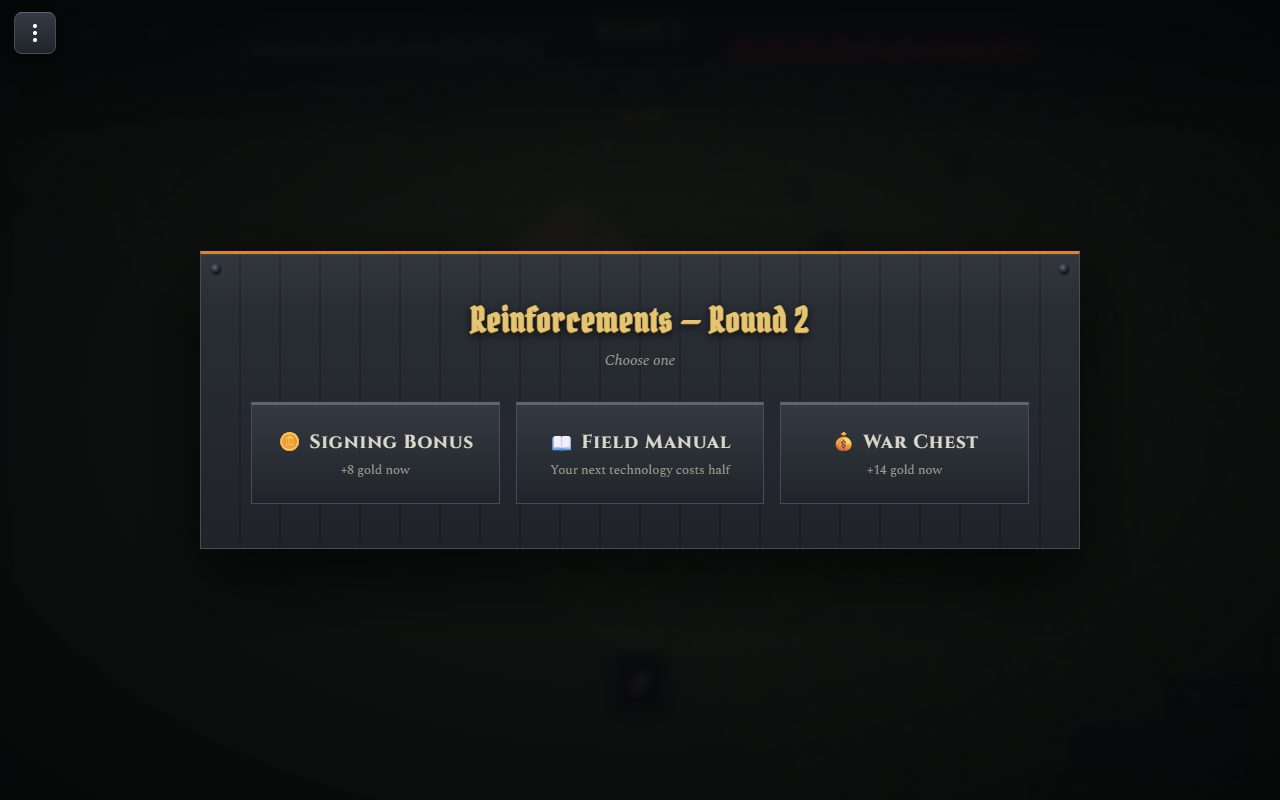
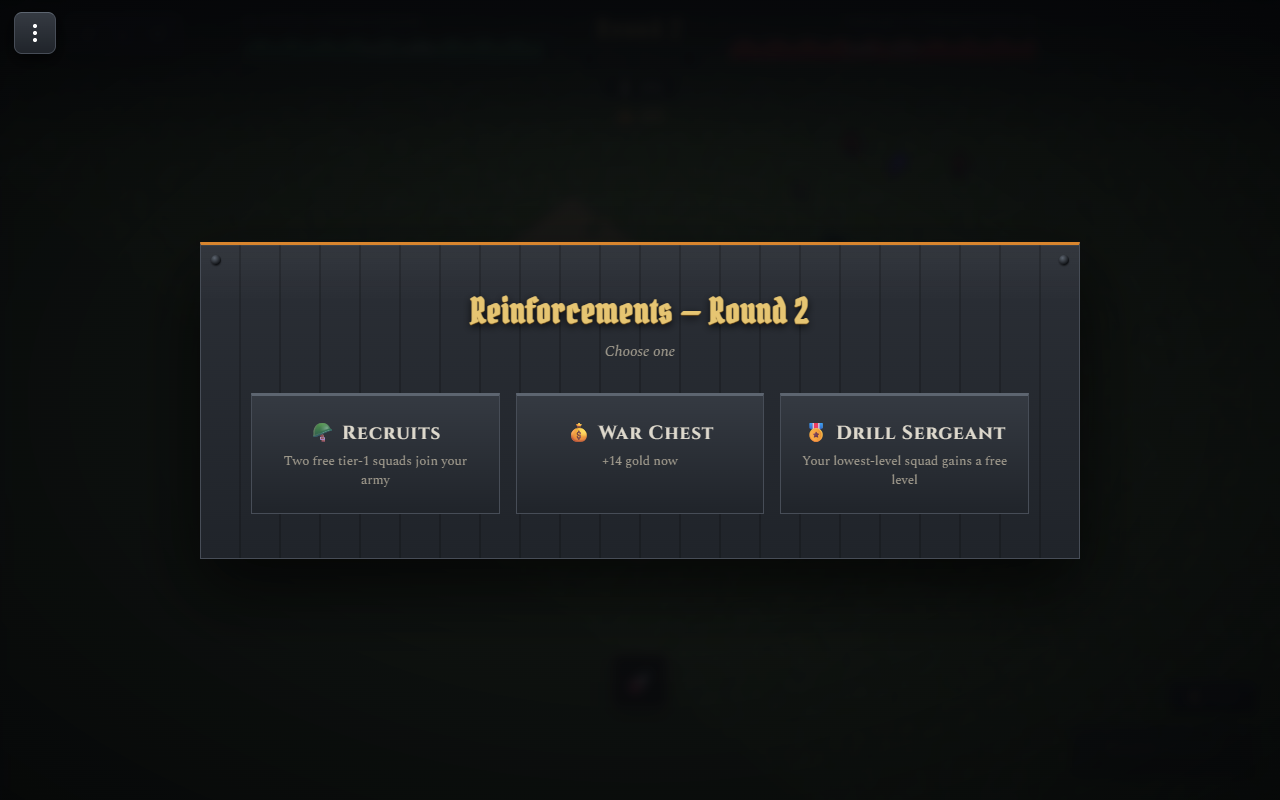
HeroArena: combat XP done right — killers earn the victim's worth
Correcting the previous commit (which removed XP entirely): Mechabellum units
DO earn experience, just not passively. Implemented its actual model:
- The killing unit (victim's combatState.lastAttacker) gets 50% of the
  victim's XP worth; living allies near the victim split the other 50%;
  indirect kills split the full worth across the side
- Victim worth = shop cost x (2·level − 1); the earned-level threshold
  mirrors the paid price (own cost x level) in destroyed-value terms —
  a rank is earned by killing what it would cost to buy
- Levels mutate entry.level directly from both sources (combat + gold);
  legacy flat per-death XP curve removed
- Feeding kills to a carry is now a real strategy, as in Mechabellum
- E2E 29/29 (staged-kill leveling check); headless completes

diff --git a/projects/HeroArena/collections/scripts/systems/js/HeroExperienceSystem.js b/projects/HeroArena/collections/scripts/systems/js/HeroExperienceSystem.js
@@ -25,8 +25,6 @@ class HeroExperienceSystem extends GUTS.BaseSystem {
         'broadcastToRoom'
     ];
 
-    static XP_PER_KILL = 1;          // each living ally gains this per enemy death
-    static XP_PER_LEVEL = 3;         // L2 at 3xp, L3 at 6xp, ...
     static MAX_LEVEL = 30;
     static SPEC_LEVEL = 3;           // tier-1 → tier-2 transform unlocks here
     static LEVEL_STAT_SCALE = 0.08;  // +8% hp & damage per level above 1
@@ -37,42 +35,121 @@ class HeroExperienceSystem extends GUTS.BaseSystem {
         this.game.heroExperienceSystem = this;
     }
 
-    // ─── XP (event hook) ──────────────────────────────────────────────────────
+    // ─── Combat XP (Mechabellum model) ────────────────────────────────────────
+    //
+    // Units earn experience BY KILLING (not by merely surviving):
+    // - The killer (victim's combatState.lastAttacker) gets 50% of the victim's
+    //   XP worth; living allies near the victim split the other 50%.
+    // - No valid killer (indirect death) → the worth splits among ALL of the
+    //   killing side's living units.
+    // - A victim's worth scales with its value and level: cost × (2·level − 1).
+    // - Earned levels stack with paid level-ups (ArmyShopSystem.buySquadLevel);
+    //   the threshold mirrors the paid price (cost × level, in kill-value),
+    //   so a rank is "earned" by destroying about what it would cost to buy.
+    // Feeding kills to a carry is a real strategy; stat scaling applies on the
+    // next round's respawn.
+    static PARTICIPATION_RADIUS = 220;
 
-    // Mechabellum redesign: units do NOT gain combat experience. Levels are a
-    // spending decision only — paid squad level-ups (ArmyShopSystem.buySquadLevel)
-    // and reinforcement cards. Free per-kill XP would give away the game's core
-    // "grow taller vs. grow wider" choice, so this hook is retired.
     onUnitKilled(deadEntityId) {
-        // intentionally no combat XP
+        if (!this.game.isServer && !this.game.state?.isLocalGame) return;
+        const deadTeam = this.game.getComponent(deadEntityId, 'team')?.team;
+        if (deadTeam == null) return;
+
+        const worth = this._victimWorth(deadEntityId);
+        if (worth <= 0) return;
+
+        // Killer: the victim's last attacker, if it's a living enemy roster unit
+        let killer = this.game.getComponent(deadEntityId, 'combatState')?.lastAttacker;
+        if (killer != null && !this._isEligibleGainer(killer, deadTeam)) killer = null;
+
+        // Participants: living enemy roster units near the victim (excluding the killer)
+        const deadPos = this.game.getComponent(deadEntityId, 'transform')?.position;
+        const participants = [];
+        const allSide = [];
+        for (const eid of (this.game.getEntitiesWith?.('heroRosterInfo', 'health') || [])) {
+            if (eid === deadEntityId || !this._isEligibleGainer(eid, deadTeam)) continue;
+            allSide.push(eid);
+            if (eid === killer || !deadPos) continue;
+            const pos = this.game.getComponent(eid, 'transform')?.position;
+            if (!pos) continue;
+            const dx = pos.x - deadPos.x, dz = pos.z - deadPos.z;
+            if (dx * dx + dz * dz <= HeroExperienceSystem.PARTICIPATION_RADIUS ** 2) {
+                participants.push(eid);
+            }
+        }
+
+        if (killer != null) {
+            this._awardXp(killer, worth * 0.5);
+            const share = participants.length ? (worth * 0.5) / participants.length : 0;
+            for (const eid of participants) this._awardXp(eid, share);
+        } else if (allSide.length) {
+            // Indirect kill: split the full worth across the side
+            const share = worth / allSide.length;
+            for (const eid of allSide) this._awardXp(eid, share);
+        }
+    }
+
+    // Victim's XP worth: shop-cost scale × (2·level − 1), Mechabellum-style.
+    _victimWorth(deadEntityId) {
+        const unitTypeComp = this.game.getComponent(deadEntityId, 'unitType');
+        const def = this.game.getUnitTypeDef?.(unitTypeComp);
+        const cost = Math.max(1, Math.ceil((def?.value || 25) / 5));
+        const level = this.game.getComponent(deadEntityId, 'heroRosterInfo')?.level || 1;
+        return cost * (2 * level - 1);
+    }
+
+    // Living roster unit on the opposite team of the victim.
+    _isEligibleGainer(eid, deadTeam) {
+        if (!this.game.getComponent(eid, 'heroRosterInfo')) return false;
+        const team = this.game.getComponent(eid, 'team')?.team;
+        if (team == null || team === deadTeam) return false;
+        const health = this.game.getComponent(eid, 'health');
+        if (!health || health.current <= 0) return false;
+        const ds = this.game.getComponent(eid, 'deathState');
+        return !ds || ds.state === this.enums.deathState.alive;
+    }
+
+    // XP needed for this entry's NEXT earned level: mirrors the paid price
+    // (own cost × current level), in destroyed-value terms.
+    _xpToNextLevel(entry) {
+        const def = this.collections.units?.[entry?.spawnType] || {};
+        const cost = Math.max(1, Math.ceil((def.value || 25) / 5));
+        return cost * Math.max(1, entry.level || 1);
     }
 
     _awardXp(entityId, amount) {
         const info = this.game.getComponent(entityId, 'heroRosterInfo');
-        if (!info) return;
+        if (!info || amount <= 0) return;
         const stats = this._statsByPlayerId(info.playerId);
         const entry = stats?.heroRoster?.[info.rosterIndex];
         if (!entry) return;
+        if ((entry.level || 1) >= HeroExperienceSystem.MAX_LEVEL) return;
+
         entry.xp = (entry.xp || 0) + amount;
-        // Paid squad level-ups (ArmyShopSystem.buySquadLevel) stack on top of XP
-        // levels — never clobber them when recomputing from xp.
-        entry.level = Math.min(HeroExperienceSystem.MAX_LEVEL,
-            HeroExperienceSystem.levelForXp(entry.xp) + (entry.paidLevels || 0));
+
+        // Consume XP into earned levels (threshold scales with the unit's own
+        // cost and level — the kill-value analogue of the paid level price).
+        let leveled = false;
+        while ((entry.level || 1) < HeroExperienceSystem.MAX_LEVEL &&
+               entry.xp >= this._xpToNextLevel(entry)) {
+            entry.xp -= this._xpToNextLevel(entry);
+            entry.level = (entry.level || 1) + 1;
+            leveled = true;
+        }
         info.level = entry.level;   // keep the live component in sync (abilities/display)
+        if (leveled) {
+            this.game.triggerEvent('onSquadLeveledFromCombat', {
+                entityId, playerId: info.playerId, rosterIndex: info.rosterIndex, level: entry.level
+            });
+        }
     }
 
     // ─── Level helpers ────────────────────────────────────────────────────────
 
-    static levelForXp(xp) {
-        const lvl = 1 + Math.floor((xp || 0) / HeroExperienceSystem.XP_PER_LEVEL);
-        return Math.max(1, Math.min(HeroExperienceSystem.MAX_LEVEL, lvl));
-    }
-
+    // entry.level is mutated directly by both level sources (combat XP in
+    // _awardXp, gold in ArmyShopSystem.buySquadLevel) — it is the truth.
     getEntryLevel(entry) {
-        if (!entry) return 1;
-        if (entry.level != null) return entry.level;
-        return Math.min(HeroExperienceSystem.MAX_LEVEL,
-            HeroExperienceSystem.levelForXp(entry.xp || 0) + (entry.paidLevels || 0));
+        return entry?.level || 1;
     }
 
     // Apply per-level stat scaling to a freshly spawned unit. Called by